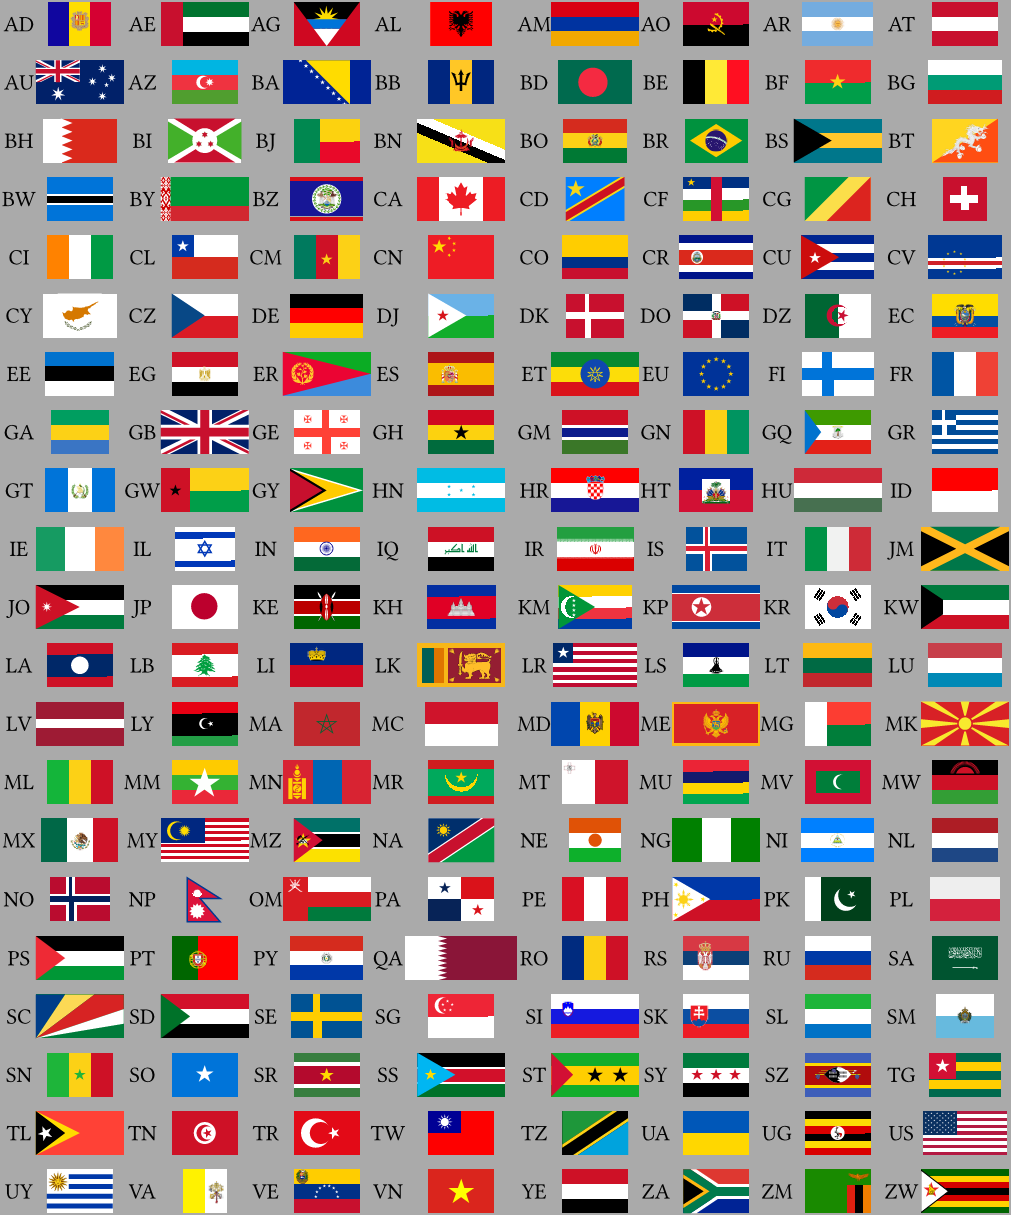
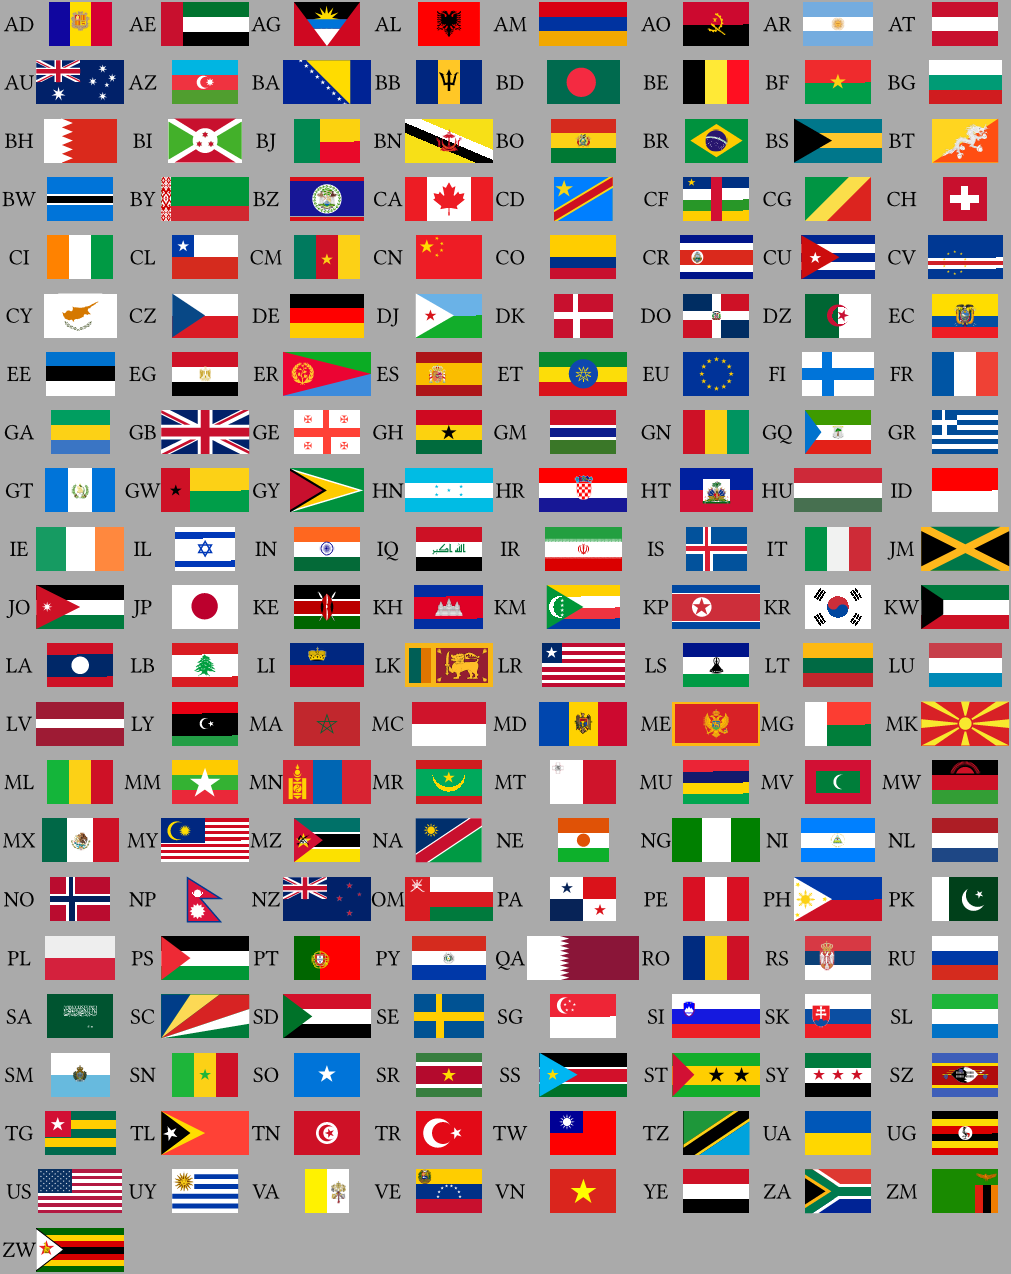
Updated the missing NZ flag in the covered list and picture

diff --git a/README.md b/README.md
@@ -18,7 +18,7 @@ Please note that long call version, like `flag_zz()`, must use _lowercase_ of th
 
 `Hello people coming from #flag_fr(), #flag_eu(), #flag("DE") and more`
 
-![](doc/example_1.png)
+![Hello people coming from France, Europe, Germany and more](doc/example_1.png)
 
 ## Modifying the height
 
@@ -32,7 +32,7 @@ Either call the flag as `flag_zz(height:6em)` or `flag("ZZ",height:6em)`, `zz` o
 
 `Hello people coming from #flag_be(height: 1em), #flag_fr(height: 2em), #flag_eu(height:3em), #flag("DE",height: 2em), #flag("LU",height: 1em) and more`
 
-![](doc/example_2.png)
+![Hello people coming from Belgium, France, Europe, Germany, Luxembourg and more](doc/example_2.png)
 
 ## Comments
 
@@ -42,7 +42,7 @@ Some flags include coat of arms or other specific components. As ususally these 
 
 #### Example of coat of arms
 
-![](doc/example_3.png)
+![Hello people coming from Europe, Spain, Portugal and more](doc/example_3.png)
 
 In this example, coats of arms are used for Spanish and Portuguese flags (but not for European flag as stars can be constructed or displayed from an unicode like `U+2605`)
 
@@ -59,12 +59,11 @@ CA CD CF CG CH CI CL CM CN CO CR CU CV CY CZ DE DJ DK DO DZ EC EE EG ER ES ET EU
 FR GA GB GE GH GM GN GQ GR GT GW GY HN HR HT HU ID IE IL IN IQ IR IS IT JM JO JP KE
 KH KM KP KR KW LA LB LI LK LR LS LT LU LV LY MA MC MD ME MG MK ML MM MN MR MT
 MU MV MW MX MY MZ NA NE NG NI NL NO NP NZ OM PA PE PH PK PL PS PT PY QA RO RS RU
-SA SC SD SE SG SI SK SL SM SN SO SR SS ST SY SZ TG TL TN TR TW TZ UA UG US UY VA VE VN
-YE ZA ZM ZW
+SA SC SD SE SG SI SK SL SM SN SO SR SS ST SY SZ TG TL TN TR TW TZ UA UG US UY VA VE VN YE ZA ZM ZW
 
 For these flags, comments are welcome
 
-![](doc/example_4.png)
+![A list of flags](doc/example_4.png)
 
 ### Flags not yet covered so far
 
